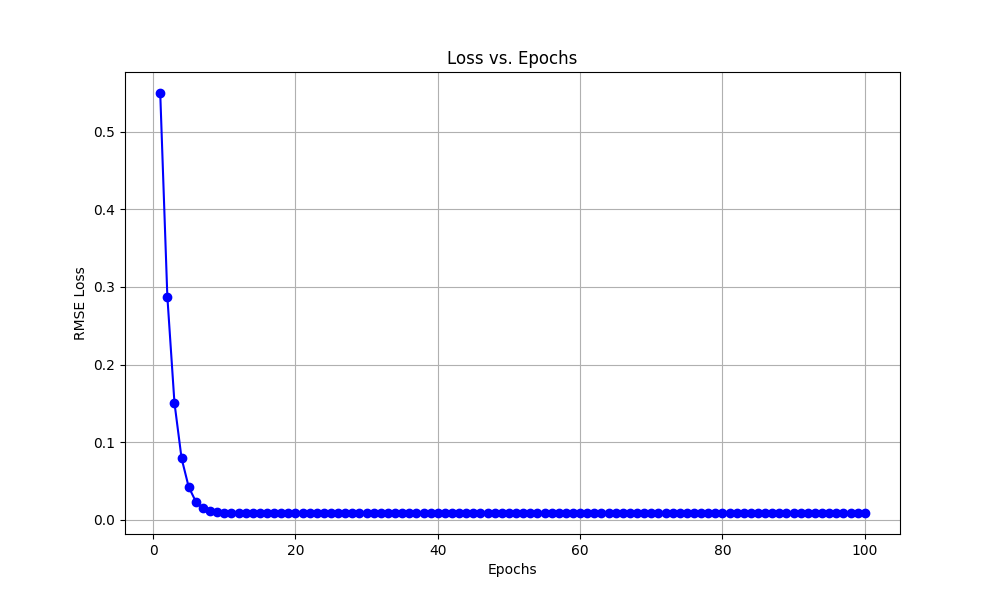
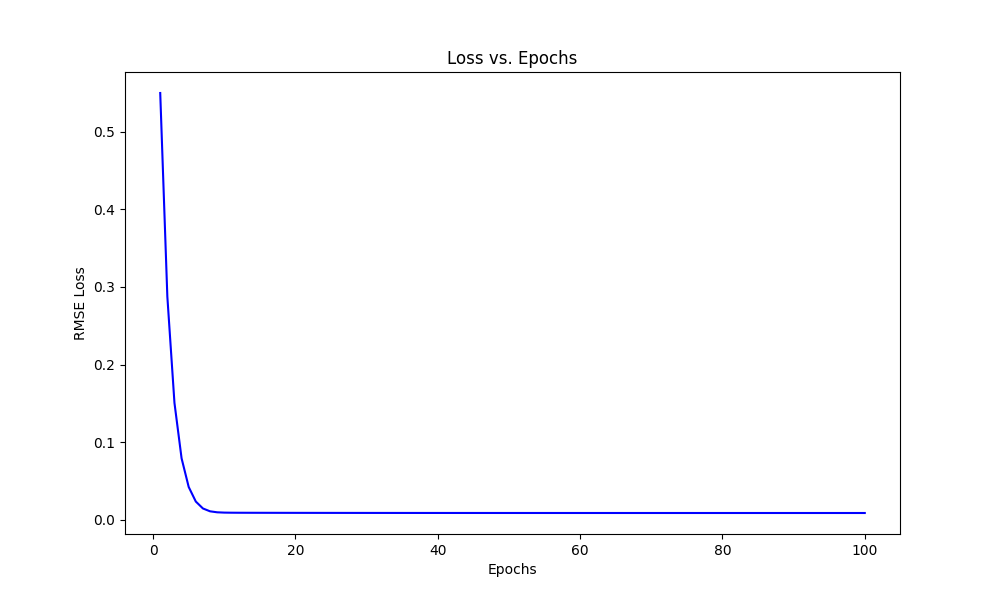
Edited

diff --git a/Ambuj/batchGradientDescent.py b/Ambuj/batchGradientDescent.py
@@ -146,12 +146,12 @@ def plot_loss(error_list, total_epochs):
   '''
   # Complete this function to plot the graph of losses stored in model's "error_list"
   plt.figure(figsize=(10, 6))
-  plt.plot(range(1, total_epochs + 1), error_list, marker='o', linestyle='-', color='b')
+  plt.plot(range(1, total_epochs + 1), error_list, color='b')
   plt.xlabel('Epochs')
   plt.ylabel('RMSE Loss')
   plt.title('Loss vs. Epochs')
-  plt.grid(True)
   plt.savefig("plot_loss.png")
+  plt.close()
   #raise NotImplementedError()
 
 def plot_learned_equation(X, y, y_hat):
@@ -170,14 +170,14 @@ def plot_learned_equation(X, y, y_hat):
     # Use y_hat to plot the line. DO NOT use y.
 
     plt.scatter(X[:, 1], y, color='blue', label='True Data Points')
-    plt.plot(X[:, 1], y_hat, color='red', label='Fitted Line')
+    plt.plot(X[:, 1], y_hat, color='red')
 
     # Add labels and legend
-    plt.xlabel('Feature Value')
-    plt.ylabel('Target Value')
-    plt.title('Predicted vs. True Data')
-    plt.legend()
+    plt.xlabel('x')
+    plt.ylabel('y')
+    plt.title('plot for equation of the form: y = w0 + w1*x')
     plt.savefig("gradient_descent.png")
+    plt.close()
     #raise NotImplementedError()
 
 ############################################
